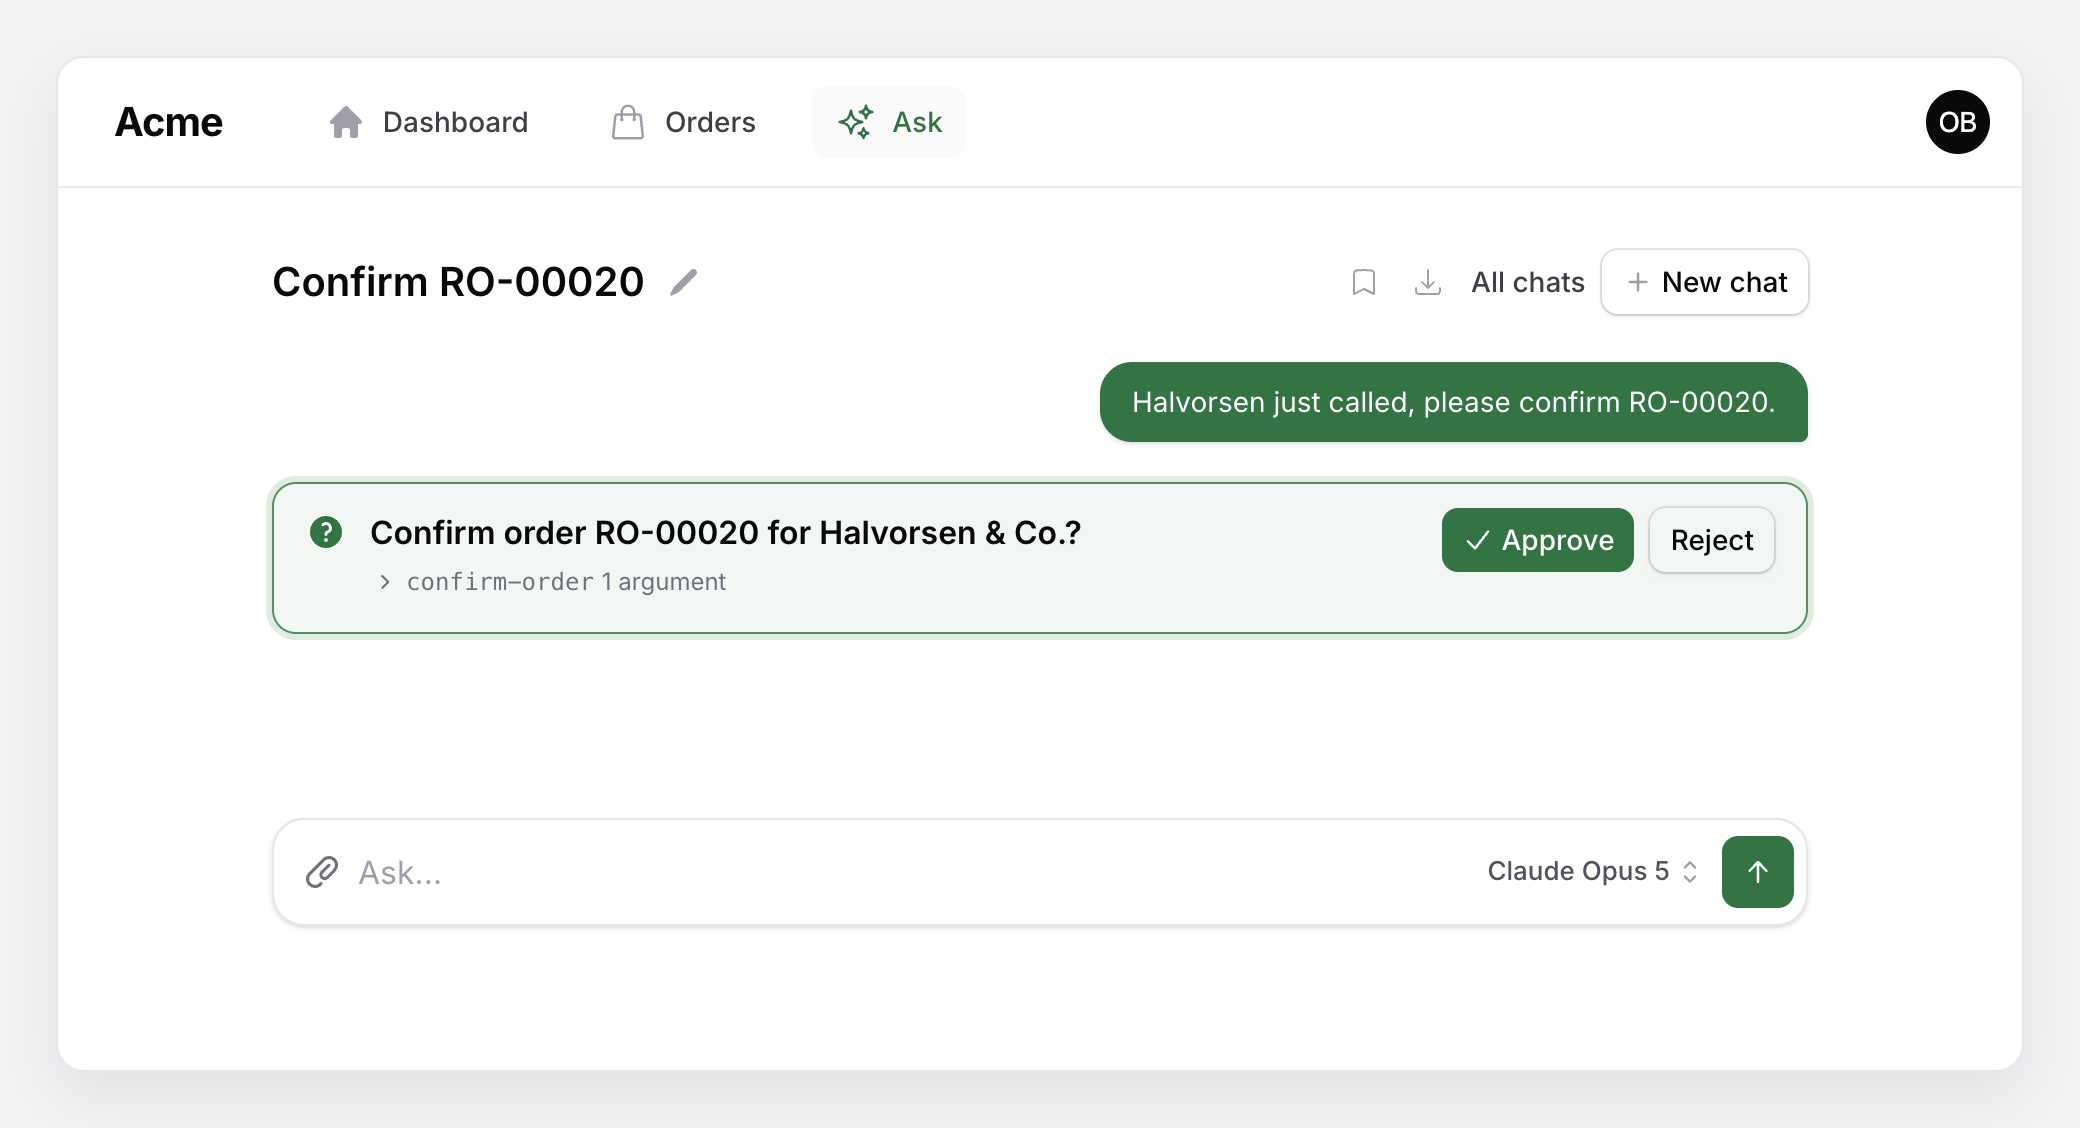
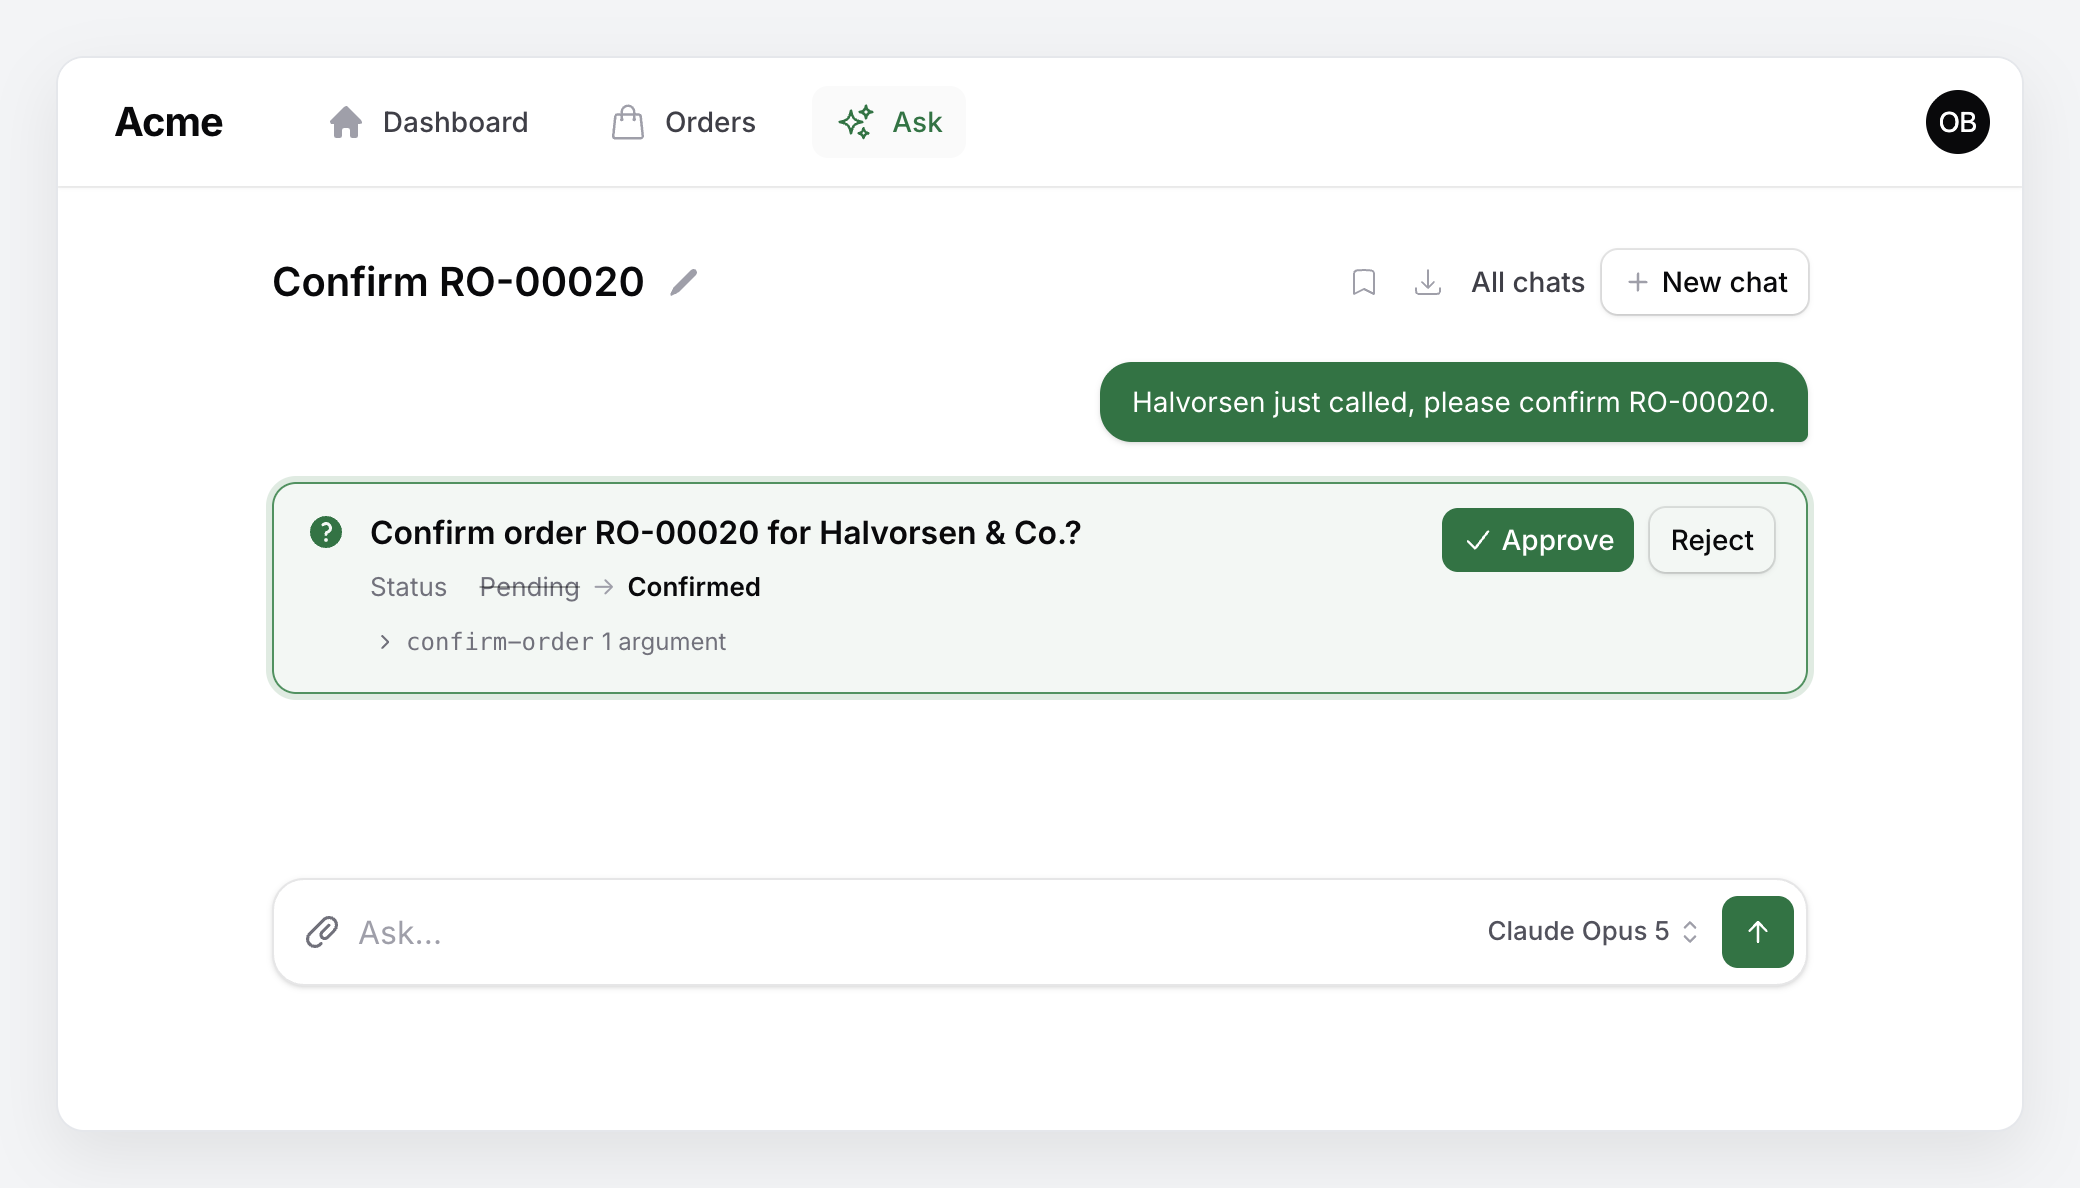
Docs: chat-approval screenshot retaken with the order's status preview, alt text to match

diff --git a/README.md b/README.md
@@ -147,7 +147,7 @@ Ask for a trend and the numbers come back drawn as a chart, from `draw-chart` or
 
 Ask for a change and the turn pauses on a question until the person approves or rejects it; the composer with the model picker waits underneath:
 
-![A request to confirm an order paused as the question "Confirm order RO-00020 for Halvorsen & Co.?" with Approve and Reject buttons and the folded confirm-order call under it, the one-row composer underneath](https://raw.githubusercontent.com/packstub/art/main/filament-agents/docs/chat-approval.png)
+![A request to confirm an order paused as the question "Confirm order RO-00020 for Halvorsen & Co.?" with Approve and Reject buttons, the status change it would make (Pending struck through, then Confirmed) and the folded confirm-order call under it, the one-row composer underneath](https://raw.githubusercontent.com/packstub/art/main/filament-agents/docs/chat-approval.png)
 
 Read more: [The assistant](https://packstub.dev/docs/filament-agents/assistant).
 

diff --git a/docs/assistant.md b/docs/assistant.md
@@ -93,7 +93,7 @@ A short reply typed over a waiting proposal is the decision too: "Yes, go ahead.
 
 The proposal sits in the conversation like any other answer, with the composer underneath for the follow-up:
 
-![A request to confirm an order paused as the question "Confirm order RO-00020 for Halvorsen & Co.?" with Approve and Reject buttons and the folded confirm-order call under it, the one-row composer underneath](https://raw.githubusercontent.com/packstub/art/main/filament-agents/docs/chat-approval.png)
+![A request to confirm an order paused as the question "Confirm order RO-00020 for Halvorsen & Co.?" with Approve and Reject buttons, the status change it would make (Pending struck through, then Confirmed) and the folded confirm-order call under it, the one-row composer underneath](https://raw.githubusercontent.com/packstub/art/main/filament-agents/docs/chat-approval.png)
 
 ### When the chat is hidden
 
